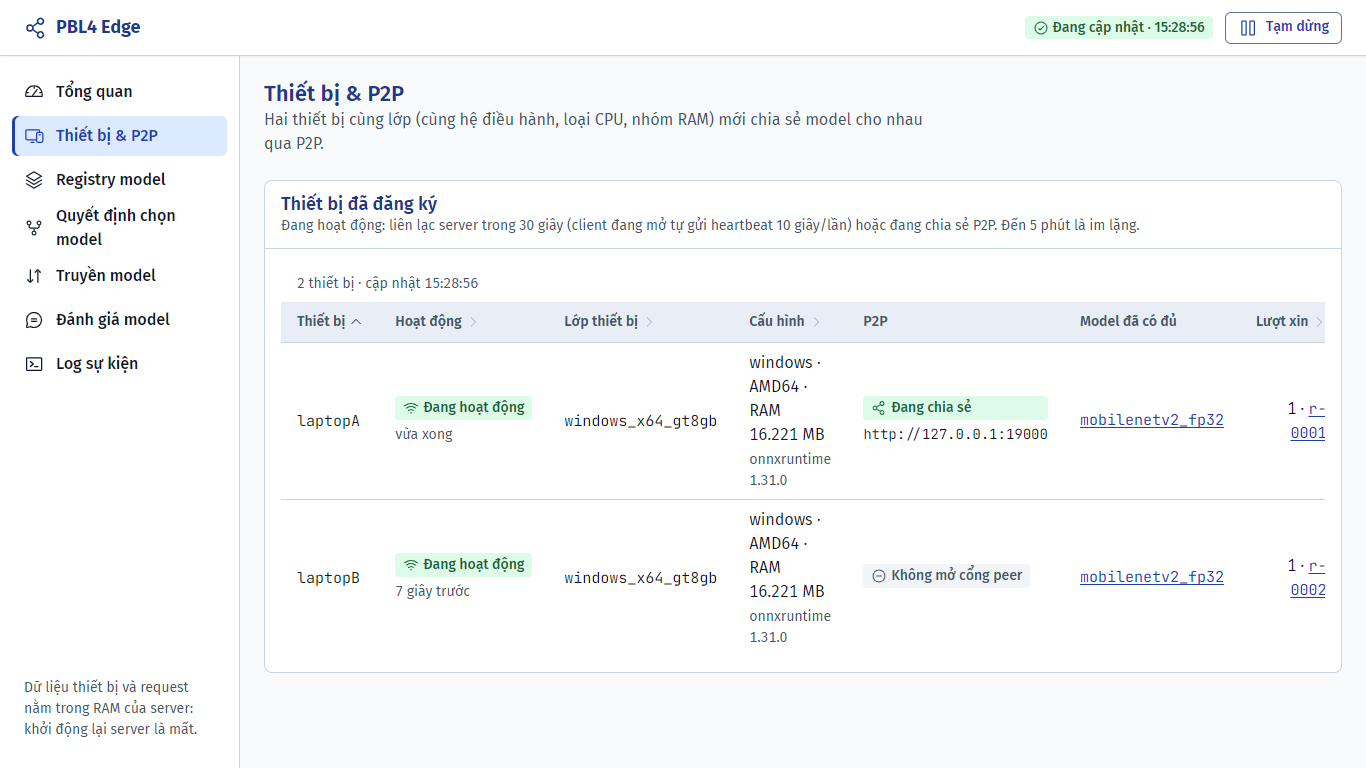
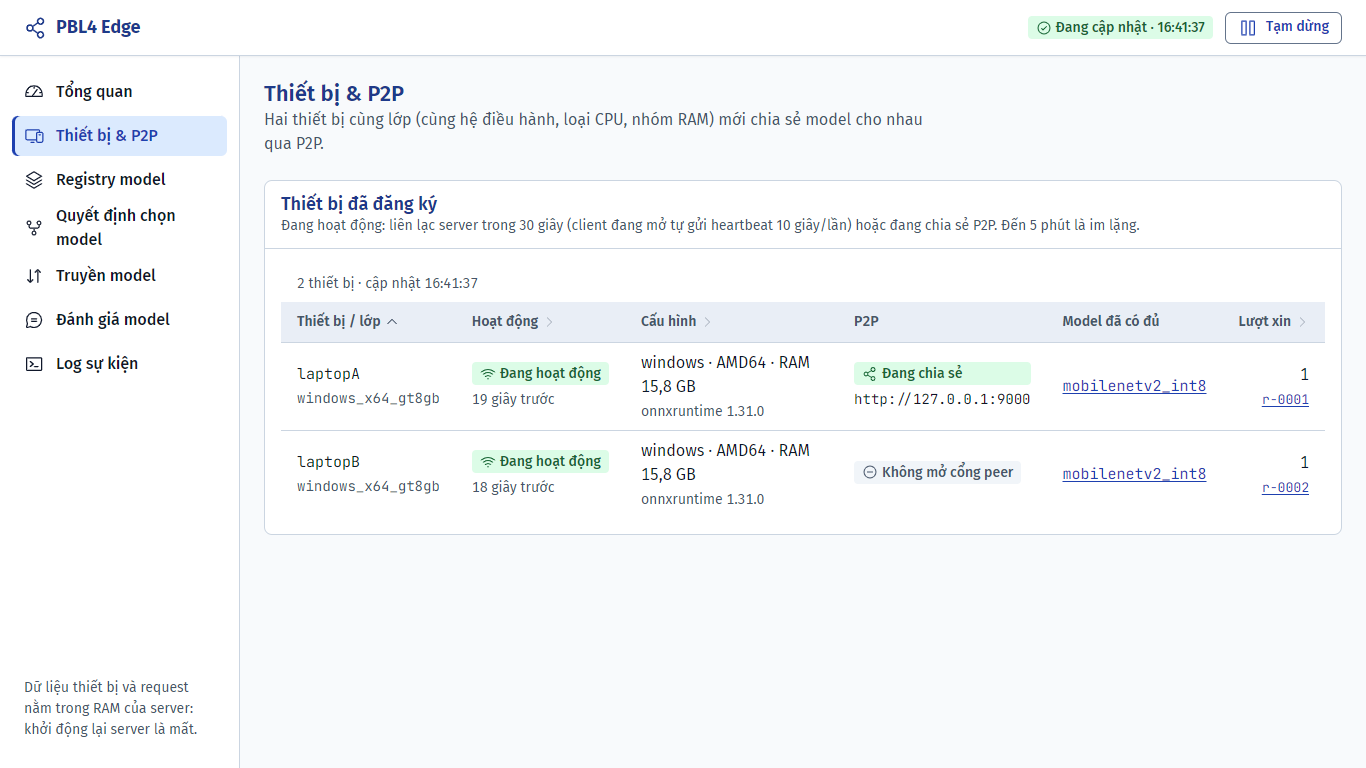
fix: giao dien khong chay JS cu sau khi cap nhat, bang Thiet bi vua 1366 px
- Dashboard (/ui, /ui/shared) va trang client web_ui gui Cache-Control: no-cache:
  chi co Last-Modified thi Chrome tu cache theo phong doan va chay JS cu sau khi pull.
- Trang Thiet bi & P2P: lop thiet bi nam duoi ten, RAM ghi GB, ma lượt xin khong
  ngat dong; bang khong con tran ngang o 1366 px. Chup lai anh 04.
- docs/demo_0411.md: phuong an du phong "giao dien cu -> Ctrl+F5".

diff --git a/server/static/js/views/devices.js b/server/static/js/views/devices.js
@@ -39,9 +39,9 @@ export default {
           state: sort,
           rows: data.devices,
           columns: [
-            { key: "device_id", label: "Thiết bị", render: (d) => h("span", { class: "mono" }, d.device_id) },
+            // lớp thiết bị nằm dưới tên (không tách cột) để bảng vừa màn 1366 px
+            { key: "device_id", label: "Thiết bị / lớp", render: (d) => h("div", { class: "stack", style: "gap:2px" }, h("span", { class: "mono" }, d.device_id), h("span", { class: "mono small muted" }, d.device_class)) },
             { key: "last_seen_age_s", label: "Hoạt động", render: (d) => h("div", { class: "stack", style: "gap:4px" }, d.active ? badge("success", "Đang hoạt động", "wifi-high") : deviceActivity(d.last_seen_age_s), h("span", { class: "small muted" }, fmt.ago(d.last_seen_age_s))) },
-            { key: "device_class", label: "Lớp thiết bị", render: (d) => h("span", { class: "mono" }, d.device_class) },
             {
               key: "ram_mb",
               label: "Cấu hình",
@@ -49,7 +49,7 @@ export default {
                 h(
                   "div",
                   { class: "stack", style: "gap:2px" },
-                  h("span", {}, `${d.platform} · ${d.cpu_arch} · RAM ${fmt.int(d.ram_mb)} MB`),
+                  h("span", {}, `${d.platform} · ${d.cpu_arch} · RAM ${fmt.num(d.ram_mb / 1024)} GB`),
                   h("span", { class: "small muted" }, d.runtime),
                 ),
             },
@@ -60,7 +60,7 @@ export default {
               sortable: false,
               render: (d) => (d.complete_variants.length ? h("div", { class: "row" }, d.complete_variants.map(variantLink)) : h("span", { class: "muted" }, "chưa có")),
             },
-            { key: "request_count", label: "Lượt xin", align: "right", render: (d) => (d.last_request_id ? h("span", {}, `${d.request_count} · `, requestLink(d.last_request_id)) : "0") },
+            { key: "request_count", label: "Lượt xin", align: "right", render: (d) => (d.last_request_id ? h("div", { class: "stack", style: "gap:2px;justify-items:end" }, String(d.request_count), h("span", { class: "small", style: "white-space:nowrap" }, requestLink(d.last_request_id))) : "0") },
           ],
         });
       },

diff --git a/server/main.py b/server/main.py
@@ -118,6 +118,16 @@ def setup_logging(logs_dir: Path) -> None:
 # ---------------------------------------------------------------- helper HTTP
 
 
+class NoCacheStaticFiles(StaticFiles):
+    """Giao diện luôn hỏi lại server (ETag, trả 304 nếu không đổi): trình duyệt không chạy JS
+    cũ sau khi cập nhật code. Chỉ có Last-Modified thì Chrome tự cache theo phỏng đoán."""
+
+    def file_response(self, *args: Any, **kwargs: Any) -> Any:
+        response = super().file_response(*args, **kwargs)
+        response.headers["Cache-Control"] = "no-cache"
+        return response
+
+
 class JSONResponse(_BaseJSONResponse):
     """JSON kèm `charset=utf-8`: PowerShell 5.1 và vài client không tự đoán UTF-8, đọc sai dấu."""
 
@@ -349,8 +359,8 @@ def create_app(settings: Settings | None = None, selector: ModelSelector | None 
 
     app.include_router(admin_router)
     # /ui/shared phải mount trước /ui (Starlette khớp theo thứ tự)
-    app.mount("/ui/shared", StaticFiles(directory=SHARED_UI_DIR), name="ui-shared")
-    app.mount("/ui", StaticFiles(directory=STATIC_DIR, html=True), name="ui")
+    app.mount("/ui/shared", NoCacheStaticFiles(directory=SHARED_UI_DIR), name="ui-shared")
+    app.mount("/ui", NoCacheStaticFiles(directory=STATIC_DIR, html=True), name="ui")
 
     @app.get("/", include_in_schema=False)
     async def root() -> RedirectResponse:

diff --git a/tests/test_web_ui.py b/tests/test_web_ui.py
@@ -266,6 +266,10 @@ def test_http_static_and_state(http_app: int) -> None:
     assert status == 200 and "text/html" in ctype and b"PBL4 Client" in body
     assert request(http_app, "GET", "/shared/css/tokens.css")[0] == 200
     assert request(http_app, "GET", "/static/js/client.js")[0] == 200
+    conn = http.client.HTTPConnection("127.0.0.1", http_app, timeout=10)
+    conn.request("GET", "/static/js/client.js")
+    assert conn.getresponse().getheader("Cache-Control") == "no-cache"
+    conn.close()
     status, _, body = request(http_app, "GET", "/api/state")
     state = json.loads(body)
     assert status == 200 and state["device_id"] == "webA" and state["server_online"] is False

diff --git a/tests/test_admin_api.py b/tests/test_admin_api.py
@@ -47,6 +47,9 @@ def test_dashboard_page_served(client: TestClient) -> None:
     assert resp.status_code == 200
     assert "text/html" in resp.headers["content-type"]
     assert client.get("/ui/shared/css/tokens.css").status_code == 200
+    # trình duyệt phải hỏi lại server, không dùng JS cũ đã cache sau khi cập nhật code
+    for path in ("/ui/", "/ui/js/app.js", "/ui/shared/js/ui.js"):
+        assert client.get(path).headers["cache-control"] == "no-cache", path
 
 
 # ---------------------------------------------------------------- tổng quan

diff --git a/client/web_ui.py b/client/web_ui.py
@@ -608,6 +608,7 @@ def make_handler(app: ClientWebApp) -> type[BaseHTTPRequestHandler]:
             self.send_response(200)
             self.send_header("Content-Type", ctype)
             self.send_header("Content-Length", str(len(data)))
+            self.send_header("Cache-Control", "no-cache")  # không chạy JS cũ sau khi cập nhật
             self.end_headers()
             self.wfile.write(data)
 

diff --git a/docs/demo_0411.md b/docs/demo_0411.md
@@ -234,6 +234,7 @@ nhận diện kế tiếp, và Registry, CSDL, feedback trong `data_demo` vẫn 
 | Upload báo "Trùng file" | Đổi tên file `.onnx` (mỗi variant một file) |
 | Upload báo lỗi ONNX | File hỏng hoặc không phải ONNX; server không lưu gì, chọn file khác |
 | Lỡ tắt nhầm variant | Bấm **Bật** trên cùng dòng |
+| Giao diện trông như bản cũ sau khi pull code | Bấm **Ctrl+F5** trên dashboard và trang client. Từ bản này server gửi `Cache-Control: no-cache` nên trình duyệt luôn hỏi lại, nhưng trình duyệt đã cache từ trước vẫn có thể dùng bản cũ một lần |
 | Dashboard hiện "Mất kết nối server" | Server đã tắt hoặc lỗi; xem cửa sổ uvicorn, chạy lại lệnh ở mục 2. Dữ liệu đang hiện được giữ nguyên |
 | Giao diện client lỗi | Dùng `client.agent` dòng lệnh (mục 2) và [lenh.md](../lenh.md); dashboard vẫn hiện đủ |
 | Muốn làm lại sạch | Ctrl+C mọi tiến trình, `rmdir /s /q data_demo`, làm lại mục 1.2 |
